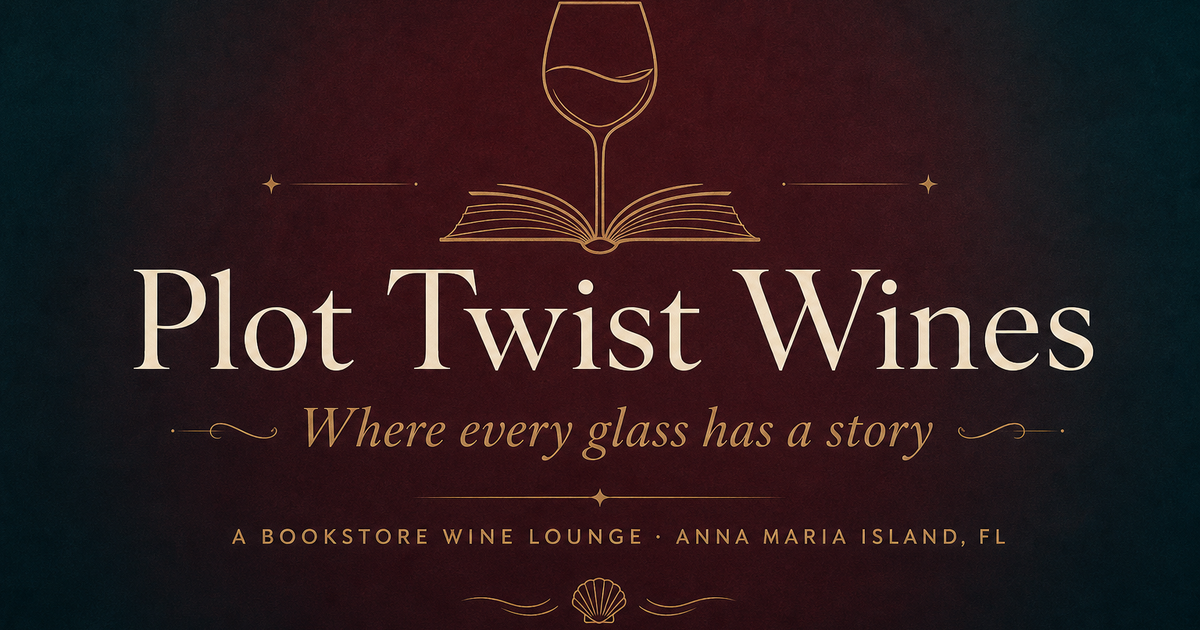
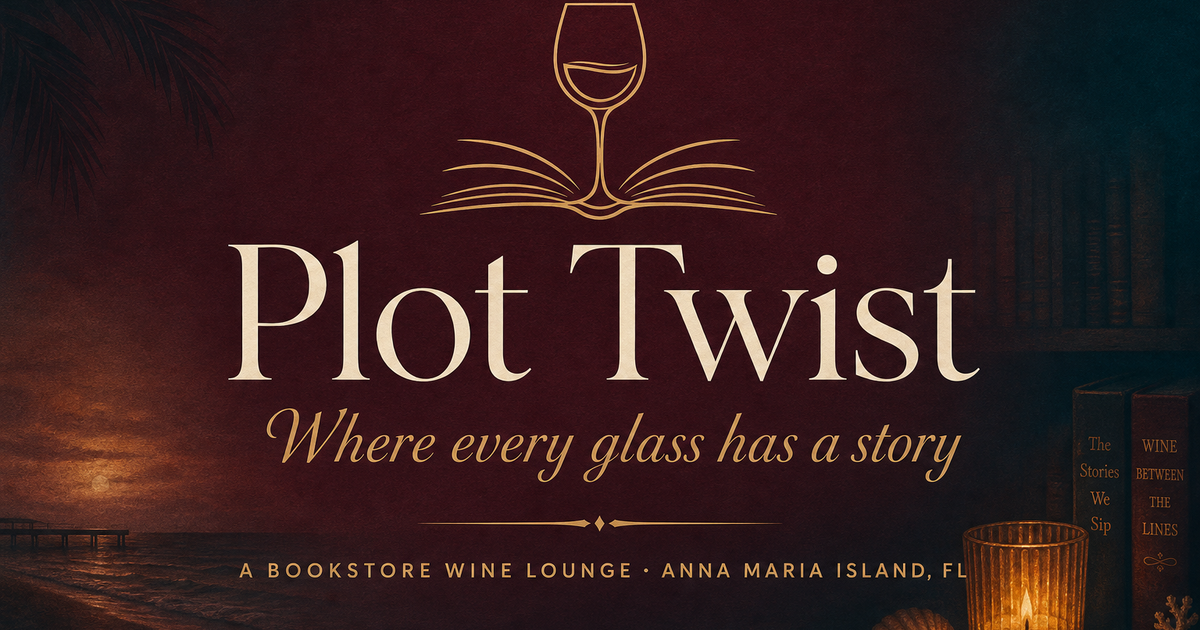
Rebrand site to "Plot Twist"
Adopt the shortened name across the site: update copy, meta tags,
Open Graph/Twitter, WineBar + FAQPage JSON-LD, brand lockup subtitle
(Books & Wine), manifest, README, a new Plot Twist og-image, and
horizontal wordmark logos.

diff --git a/index.html b/index.html
@@ -3,11 +3,11 @@
 <head>
   <meta charset="UTF-8" />
   <meta name="viewport" content="width=device-width, initial-scale=1.0" />
-  <title>Plot Twist Wines · A Bookstore Wine Lounge on Anna Maria Island</title>
-  <meta name="description" content="Plot Twist Wines is a bookstore wine lounge on Anna Maria Island, FL where every glass has a story. Curated wines, hundreds of books, and coastal evenings. Opening soon." />
+  <title>Plot Twist · A Bookstore Wine Lounge on Anna Maria Island</title>
+  <meta name="description" content="Plot Twist is a bookstore wine lounge on Anna Maria Island, FL where every glass has a story. Curated wines, hundreds of books, and coastal evenings. Opening soon." />
   <link rel="canonical" href="https://plottwistwines.com/" />
   <meta name="theme-color" content="#6b1f2a" />
-  <meta name="author" content="Plot Twist Wines" />
+  <meta name="author" content="Plot Twist" />
   <meta name="robots" content="index, follow" />
 
   <!-- Geo -->
@@ -16,22 +16,22 @@
 
   <!-- Open Graph -->
   <meta property="og:type" content="website" />
-  <meta property="og:site_name" content="Plot Twist Wines" />
-  <meta property="og:title" content="Plot Twist Wines · Bookstore Wine Lounge on Anna Maria Island" />
+  <meta property="og:site_name" content="Plot Twist" />
+  <meta property="og:title" content="Plot Twist · Bookstore Wine Lounge on Anna Maria Island" />
   <meta property="og:description" content="A bookstore wine lounge on Anna Maria Island where every glass has a story. Curated wines, hundreds of books, coastal evenings. Opening soon." />
   <meta property="og:url" content="https://plottwistwines.com/" />
   <meta property="og:locale" content="en_US" />
   <meta property="og:image" content="https://plottwistwines.com/og-image.png" />
   <meta property="og:image:width" content="1200" />
   <meta property="og:image:height" content="630" />
-  <meta property="og:image:alt" content="Plot Twist Wines — a bookstore wine lounge on Anna Maria Island" />
+  <meta property="og:image:alt" content="Plot Twist — a bookstore wine lounge on Anna Maria Island" />
 
   <!-- Twitter / X -->
   <meta name="twitter:card" content="summary_large_image" />
-  <meta name="twitter:title" content="Plot Twist Wines · Anna Maria Island" />
+  <meta name="twitter:title" content="Plot Twist · Anna Maria Island" />
   <meta name="twitter:description" content="Bookstore wine lounge on Anna Maria Island where every glass has a story. Opening soon." />
   <meta name="twitter:image" content="https://plottwistwines.com/og-image.png" />
-  <meta name="twitter:image:alt" content="Plot Twist Wines — a bookstore wine lounge on Anna Maria Island" />
+  <meta name="twitter:image:alt" content="Plot Twist — a bookstore wine lounge on Anna Maria Island" />
 
   <link rel="preconnect" href="https://fonts.googleapis.com" />
   <link rel="preconnect" href="https://fonts.gstatic.com" crossorigin />
@@ -50,7 +50,7 @@
     "@context": "https://schema.org",
     "@type": "WineBar",
     "@id": "https://plottwistwines.com/#business",
-    "name": "Plot Twist Wines",
+    "name": "Plot Twist",
     "description": "A bookstore wine lounge on Anna Maria Island where every glass has a story. Curated wines, hundreds of books to browse, and coastal evenings.",
     "url": "https://plottwistwines.com/",
     "telephone": "[phone redacted]",
@@ -80,7 +80,7 @@
   <!-- Navigation -->
   <header class="nav" id="nav">
     <div class="nav__inner">
-      <a href="#top" class="brand" aria-label="Plot Twist Wines home">
+      <a href="#top" class="brand" aria-label="Plot Twist home">
         <svg class="brand__mark" viewBox="0 0 32 32" aria-hidden="true">
           <g fill="none" stroke="currentColor" stroke-width="1.5" stroke-linecap="round" stroke-linejoin="round">
             <path d="M11 4h10"/>
@@ -92,7 +92,7 @@
             <path d="M16 18.5v6"/>
           </g>
         </svg>
-        <span class="brand__text">Plot&nbsp;Twist<em>Wines</em></span>
+        <span class="brand__text">Plot&nbsp;Twist<em>Books &amp; Wine</em></span>
       </a>
 
       <nav class="nav__links" aria-label="Primary">
@@ -409,7 +409,7 @@
               </svg>
             </div>
             <div class="visit__pin">
-              <strong>Plot Twist Wines</strong>
+              <strong>Plot Twist</strong>
               <span>Anna Maria Island, FL</span>
               <a href="https://maps.google.com/?q=Anna+Maria+Island+FL" target="_blank" rel="noopener" class="btn btn--line btn--sm">Get Directions</a>
             </div>
@@ -429,15 +429,15 @@
 
         <div class="faq__list">
           <details class="faq__item reveal">
-            <summary>What is Plot Twist Wines?</summary>
-            <div class="faq__answer"><p>Plot Twist Wines is a bookstore wine lounge on Anna Maria Island, Florida. It's part wine bar and part bookstore — a cozy spot to browse well-loved books, sip curated wines by the glass, and settle into a quiet corner.</p></div>
+            <summary>What is Plot Twist?</summary>
+            <div class="faq__answer"><p>Plot Twist is a bookstore wine lounge on Anna Maria Island, Florida. It's part wine bar and part bookstore — a cozy spot to browse well-loved books, sip curated wines by the glass, and settle into a quiet corner.</p></div>
           </details>
           <details class="faq__item reveal">
-            <summary>Where is Plot Twist Wines located?</summary>
+            <summary>Where is Plot Twist located?</summary>
             <div class="faq__answer"><p>We're on Anna Maria Island, Florida, just steps from the Gulf. The exact street address will be announced soon — check back or reach out at [email redacted].</p></div>
           </details>
           <details class="faq__item reveal">
-            <summary>Is Plot Twist Wines open yet?</summary>
+            <summary>Is Plot Twist open yet?</summary>
             <div class="faq__answer"><p>Not quite — we're opening soon. Hours are still being finalized (TBD). Follow along or send us your email and we'll let you know the moment we open our doors.</p></div>
           </details>
           <details class="faq__item reveal">
@@ -464,15 +464,15 @@
     "mainEntity": [
       {
         "@type": "Question",
-        "name": "What is Plot Twist Wines?",
+        "name": "What is Plot Twist?",
         "acceptedAnswer": {
           "@type": "Answer",
-          "text": "Plot Twist Wines is a bookstore wine lounge on Anna Maria Island, Florida. It's part wine bar and part bookstore — a cozy spot to browse well-loved books, sip curated wines by the glass, and settle into a quiet corner."
+          "text": "Plot Twist is a bookstore wine lounge on Anna Maria Island, Florida. It's part wine bar and part bookstore — a cozy spot to browse well-loved books, sip curated wines by the glass, and settle into a quiet corner."
         }
       },
       {
         "@type": "Question",
-        "name": "Where is Plot Twist Wines located?",
+        "name": "Where is Plot Twist located?",
         "acceptedAnswer": {
           "@type": "Answer",
           "text": "We're on Anna Maria Island, Florida, just steps from the Gulf. The exact street address will be announced soon — reach out at [email redacted]."
@@ -480,7 +480,7 @@
       },
       {
         "@type": "Question",
-        "name": "Is Plot Twist Wines open yet?",
+        "name": "Is Plot Twist open yet?",
         "acceptedAnswer": {
           "@type": "Answer",
           "text": "Not quite — we're opening soon. Hours are still being finalized. Send us your email and we'll let you know the moment we open."
@@ -542,7 +542,7 @@
               <path d="M16 18.5v6"/>
             </g>
           </svg>
-          <span class="brand__text">Plot&nbsp;Twist<em>Wines</em></span>
+          <span class="brand__text">Plot&nbsp;Twist<em>Books &amp; Wine</em></span>
         </a>
         <p>A bookstore wine lounge on Anna Maria Island. Come for a chapter, stay for the sunset.</p>
       </div>
@@ -570,7 +570,7 @@
       </div>
     </div>
     <div class="footer__bar">
-      <p>© <span id="year"></span> Plot Twist Wines · Anna Maria Island, FL</p>
+      <p>© <span id="year"></span> Plot Twist · Anna Maria Island, FL</p>
       <p>Please sip responsibly. Must be 21+ to enjoy the wine.</p>
     </div>
   </footer>

diff --git a/README.md b/README.md
@@ -1,6 +1,6 @@
-# Plot Twist Wines
+# Plot Twist
 
-A single-page marketing website for **Plot Twist Wines** — a bookstore wine lounge on Anna Maria Island, FL. *Where every glass has a story.*
+A single-page marketing website for **Plot Twist** — a bookstore wine lounge on Anna Maria Island, FL. *Where every glass has a story.*
 
 ## Overview
 